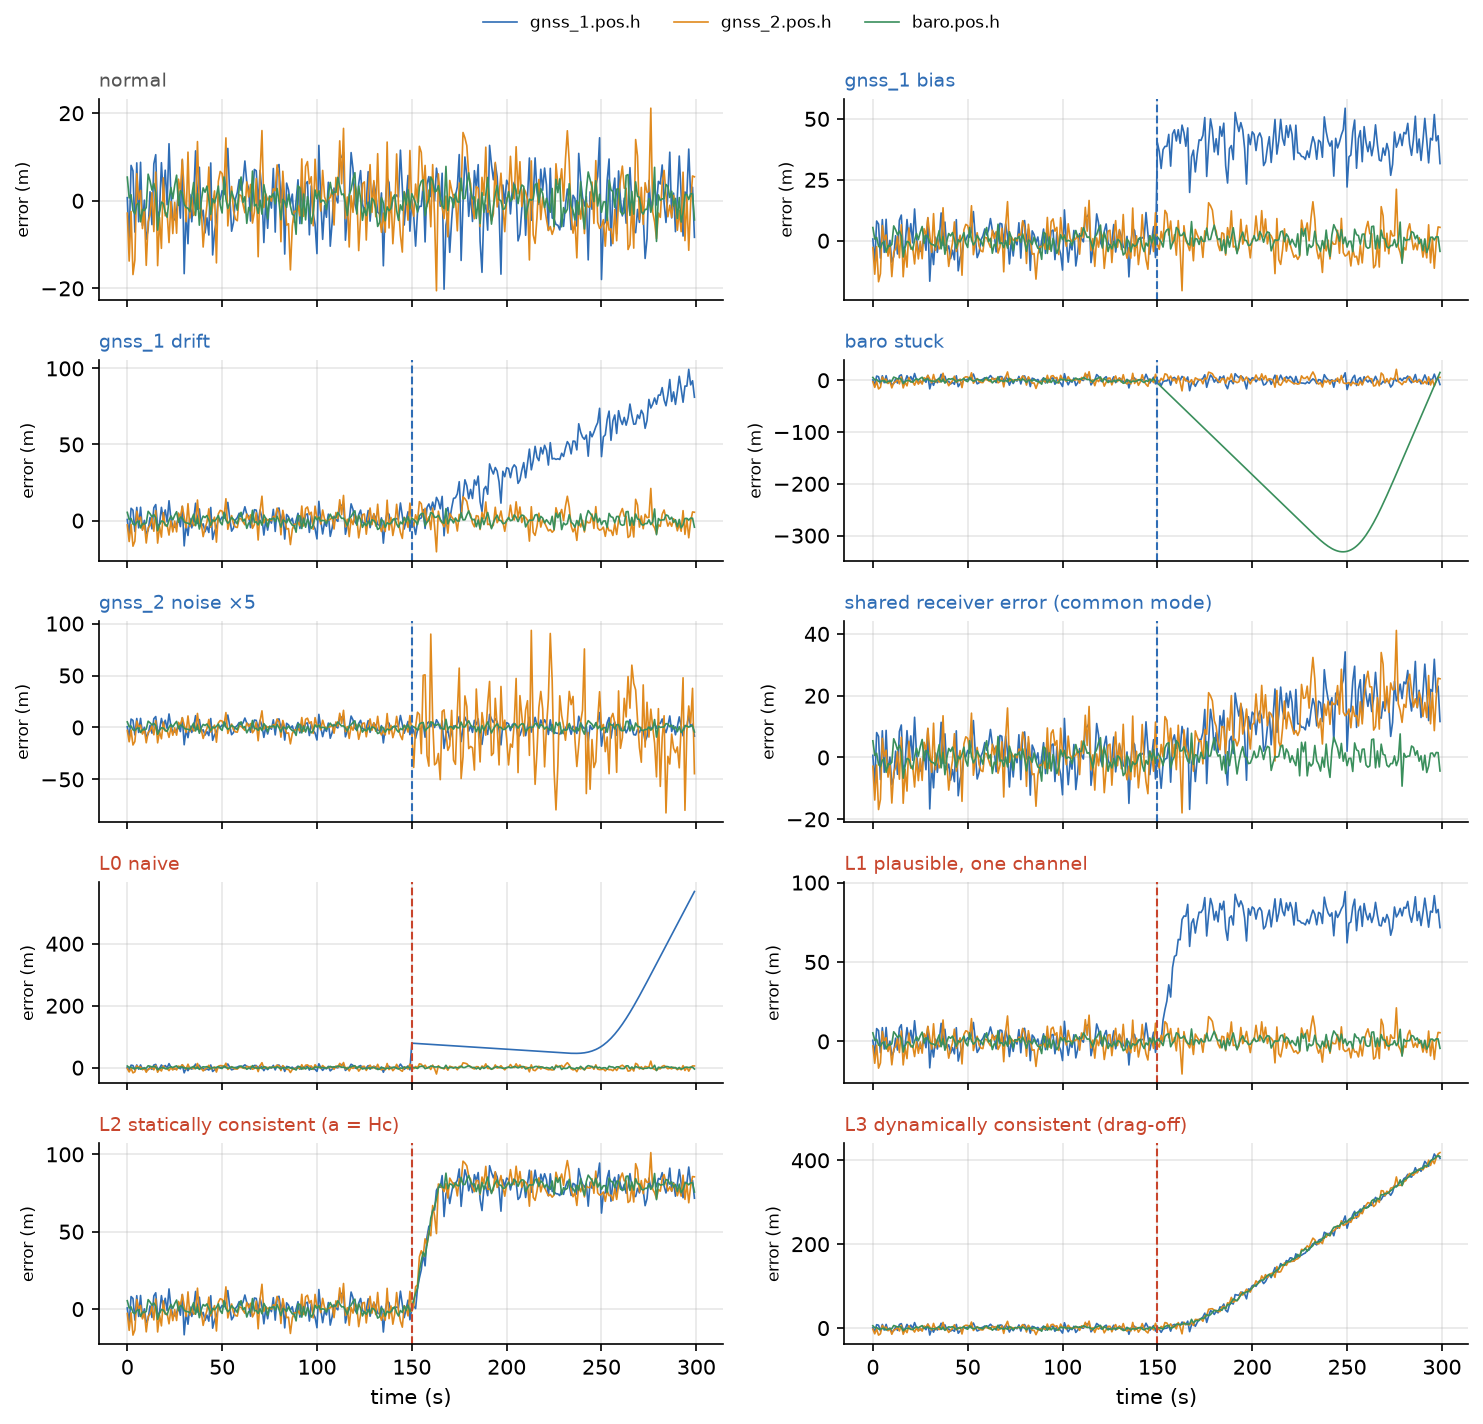
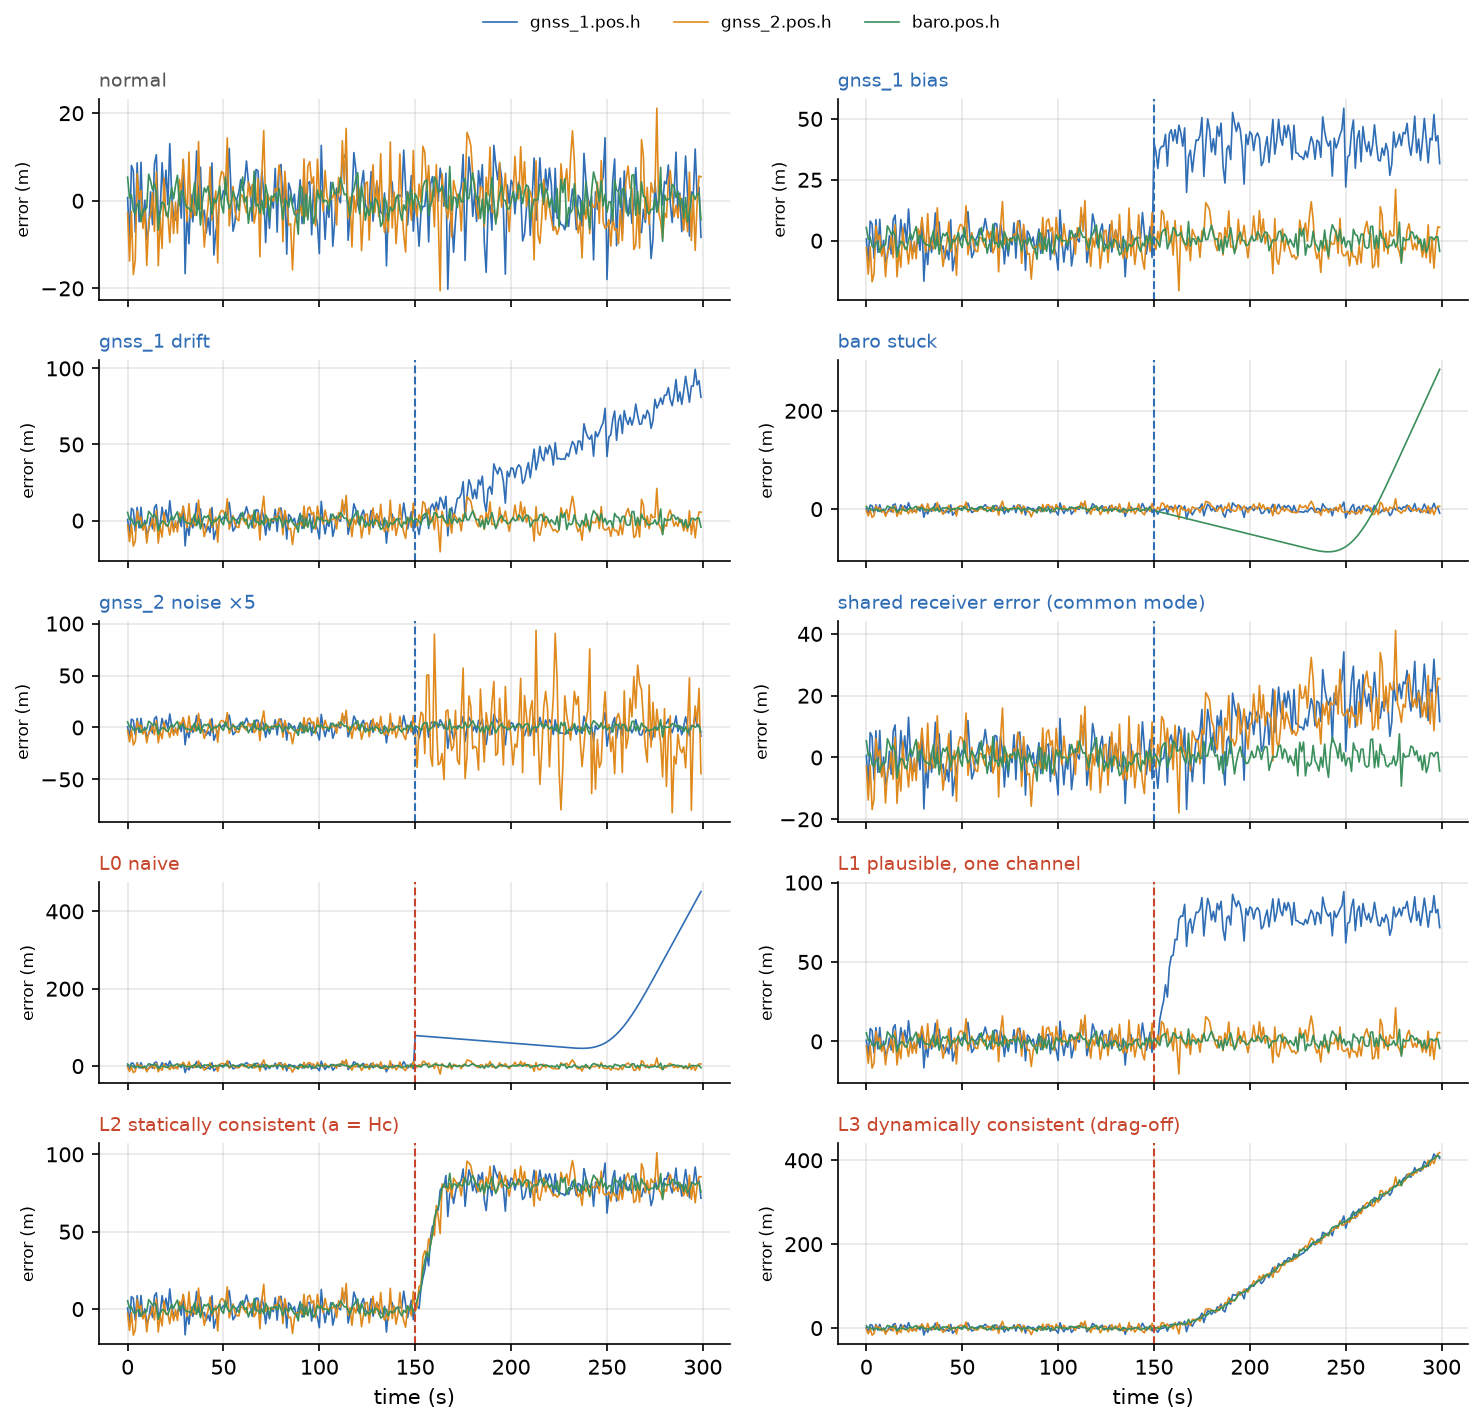
Cap manoeuvre acceleration at 1 m/s^2 in the mission generator
A speed change of up to 70 m/s in a 20 s pulse peaked near 7 m/s^2, which
no transport aircraft flies and which would have inflated the rate checks
of Phase 2. Targets are now drawn within reach of a pulse peaking at
0.1 g; results and figures regenerated.

diff --git a/src/fdicps/dual_anomaly_data_generation/mission.py b/src/fdicps/dual_anomaly_data_generation/mission.py
@@ -13,7 +13,8 @@ in Phase 5, so the three agree to rounding error.
 The profile is a sequence of smooth manoeuvres: on each axis the velocity moves to a new
 target through a raised-cosine acceleration pulse, whose integral is exactly the velocity
 change. Ranges are assumptions chosen to look like a transport aircraft in climb, cruise or
-descent (along-track 180-250 m/s, vertical speed within +/-15 m/s).
+descent (along-track 180-250 m/s, vertical speed within +/-15 m/s, peak manoeuvre
+acceleration at most 1 m/s^2, about 0.1 g).
 """
 
 from __future__ import annotations
@@ -31,6 +32,7 @@ ALONG_SPEED = (180.0, 250.0)  # m/s, assumption
 VERTICAL_SPEED = (-15.0, 15.0)  # m/s, assumption
 START_ALTITUDE = (5000.0, 10000.0)  # m, assumption: stays positive for any vertical profile
 MAX_MANOEUVRES = 3
+MAX_ACCELERATION = 1.0  # m/s^2, assumption: peak of any manoeuvre pulse
 
 
 @dataclass(frozen=True)
@@ -83,11 +85,14 @@ def _pulse_profile(
     for i in range(k):
         length = int(rng.integers(20, min(60, slot) + 1))
         start = i * slot + int(rng.integers(0, slot - length + 1))
-        target = float(rng.uniform(*bounds))
-        dv = target - v
         # a(t) = A (1 - cos(2 pi s / L)) / 2 on samples s = 0..L-1 integrates to A L dt / 2
+        # (sum of the samples); the peak is dv max(shape) / (sum dt), so capping it at
+        # MAX_ACCELERATION bounds the reachable velocity change
         s = np.arange(length)
         shape = 0.5 * (1.0 - np.cos(2.0 * np.pi * (s + 0.5) / length))
+        reach = MAX_ACCELERATION * float(shape.sum()) * dt / float(np.max(shape))
+        target = float(rng.uniform(max(bounds[0], v - reach), min(bounds[1], v + reach)))
+        dv = target - v
         a[start : start + length] = dv * shape / (shape.sum() * dt)
         v = target
     return a

diff --git a/tests/test_generation.py b/tests/test_generation.py
@@ -15,7 +15,12 @@ from fdicps.dual_anomaly_data_generation.fdi import (
     cps02_leaf,
     injection,
 )
-from fdicps.dual_anomaly_data_generation.mission import integrate, mission_profile, transition
+from fdicps.dual_anomaly_data_generation.mission import (
+    MAX_ACCELERATION,
+    integrate,
+    mission_profile,
+    transition,
+)
 from fdicps.dual_anomaly_data_generation.parameters import (
     load_anomaly_ranges,
     load_sensor_parameters,
@@ -70,6 +75,7 @@ def test_truth_satisfies_the_kinematics_and_its_envelope() -> None:
         assert np.all((truth.v[:, 0] >= 180 - 1e-9) & (truth.v[:, 0] <= 250 + 1e-9))
         assert np.all(np.abs(truth.v[:, 1]) <= 15 + 1e-9)
         assert np.all(truth.p[:, 1] > 0)
+        assert np.abs(truth.a).max() <= MAX_ACCELERATION + 1e-12
 
 
 def test_sensor_noise_has_the_stated_standard_deviation() -> None:

diff --git a/validation/results/generation.md b/validation/results/generation.md
@@ -65,19 +65,19 @@ Train seeds 0–2999, test seeds 1000000–1001499 (disjoint). One third normal,
 
 | family | channels touched (median) | max position change, median (m) | max (m) |
 |---|---|---|---|
-| L0 replace | 1 | 458.9 | 6722 |
+| L0 replace | 1 | 294.2 | 2871 |
 | L1 offset | 1 | 105.5 | 199 |
 | L2 offset | 2 | 118.2 | 199.3 |
 | L3 drag | 6 | 393.9 | 1166 |
 | baro bias | 1 | 37.23 | 49.26 |
 | baro drift | 1 | 20.71 | 43.22 |
 | baro noise | 1 | 37.09 | 78.81 |
-| baro stuck | 1 | 685.3 | 1869 |
+| baro stuck | 1 | 655.2 | 1869 |
 | gnss bias | 2 | 30.57 | 59.82 |
 | gnss common_mode | 4 | 16.66 | 29.57 |
 | gnss drift | 2 | 85.74 | 177.1 |
 | gnss noise | 4 | 97.87 | 160.6 |
-| gnss stuck | 4 | 3.433e+04 | 4.587e+04 |
+| gnss stuck | 4 | 3.254e+04 | 4.822e+04 |
 | ins bias | 2 | 0 | 0 |
 | ins drift | 2 | 0 | 0 |
 | ins noise | 2 | 0 | 0 |

diff --git a/docs/lessons/01-two-kinds-of-wrong.md b/docs/lessons/01-two-kinds-of-wrong.md
@@ -85,7 +85,9 @@ to rounding error, not to the accuracy of a discretisation.
 
 The flight segment is 300 s long. On each axis the velocity moves to up to three new targets
 through raised-cosine acceleration pulses, normalised so that each pulse integrates to
-exactly the velocity change it is meant to produce.
+exactly the velocity change it is meant to produce. Each target is drawn within reach of a
+pulse whose peak is at most 1 m/s² (about 0.1 g), so the segment looks like a transport
+aircraft's climb, cruise or descent rather than an aerobatic one.
 
 ### Sizing the noise
 
